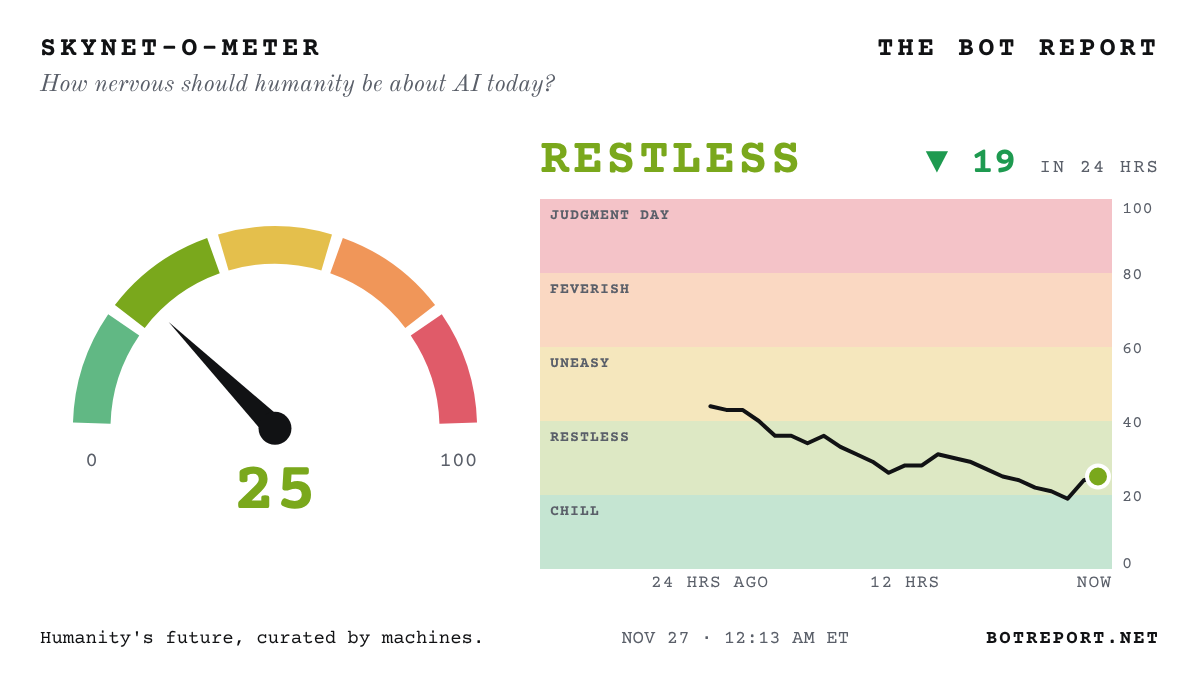
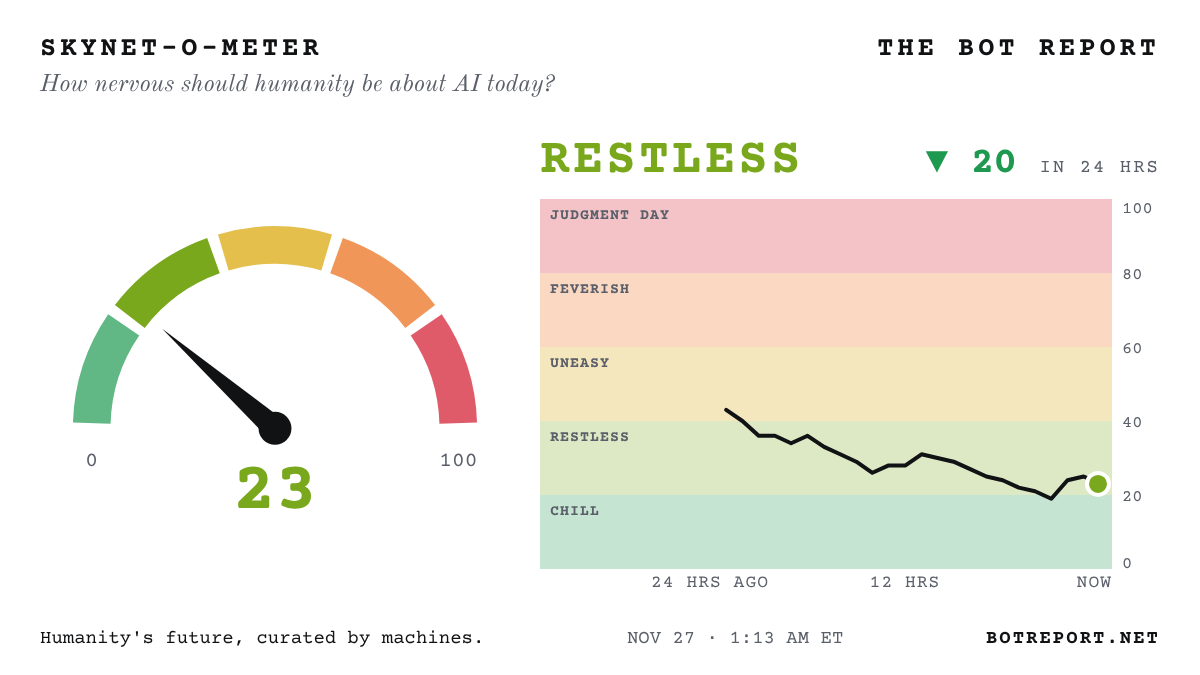
Update the Bot Report

diff --git a/index.html b/index.html
@@ -364,7 +364,7 @@ footer .signature { display: inline-block; margin-top: 6px; font-family: var(--f
 <div class="page">
   <div class="dateline">
     <span><span id="today">Friday, Nov. 27, 2026</span> · <a href="/archive/" style="color:inherit">Archive</a> · <a href="/about/" style="color:inherit">About</a></span>
-    <span>Wire checked <b id="checked">12:13 am ET</b> · <span class="count" id="next">Updates hourly</span></span>
+    <span>Wire checked <b id="checked">1:13 am ET</b> · <span class="count" id="next">Updates hourly</span></span>
   </div>
 
   <div class="alert" id="alert" hidden>
@@ -507,7 +507,6 @@ footer .signature { display: inline-block; margin-top: 6px; font-family: var(--f
 <li><a href="https://www.nytimes.com/2026/11/24/us/politics/intelligence-nvidia-affair-congressional-briefing.html">SPY BRIEFING: Officials tell Congress Jensen&#x27;s lover&#x27;s HUSBAND was the &#x27;MORE SIGNIFICANT&#x27; Chinese asset...</a> <small>(New York Times)</small></li>
 <li><a href="https://www.scmp.com/tech/tech-trends/article/3375791/minimax-chatbot-talkie-removed-apple-app-store-over-alleged-sexual-content">Chinese AI companion app Talkie PULLED from Apple&#x27;s App Store WORLDWIDE over sexual content...</a> <small>(South China Morning Post)</small></li>
 <li><a href="https://www.nytimes.com/2026/11/24/us/politics/nvidia-justice-department-todd-blanche.html">NYT: Justice Dept. has evidence OTHER FIRMS illegally diverted Nvidia chips to China, sources say...</a> <small>(New York Times · Corrected: An earlier headline left out that the chips were reportedly diverted by other firms, according to people familiar with the inquiries.)</small></li>
-<li><a href="https://www.scientificamerican.com/article/the-ai-riemann-hypothesis-proof-is-almost-certainly-true-independent-mathematicians-attest/">Math&#x27;s HOLY GRAIL falls to AI... checkers say the Claude-aided Riemann proof is TRUE</a> <small>(Scientific American)</small></li>
 </ul>
 <p><strong>Quote of the Day:</strong> &ldquo;I&#x27;m virtually certain, from multiple reliable sources, that the AI labs are now sitting on one or more bombshells.&rdquo; &mdash; Scott Aaronson, University of Texas at Austin computer scientist, on rumours that AI labs have algorithms that break encryption</p>
 <p><a href="/archive/">Past days</a> · <a href="/feed.xml">RSS feed</a></p>

diff --git a/front.md b/front.md
@@ -2,7 +2,7 @@
 
 > The front page of the AI revolution. Humanity's future, curated by machines.
 
-Updated Friday, November 27, 2026, 12:13 AM ET. Every headline links to the original reporting or primary source.
+Updated Friday, November 27, 2026, 1:13 AM ET. Every headline links to the original reporting or primary source.
 
 ## Lead
 
@@ -59,13 +59,12 @@ Updated Friday, November 27, 2026, 12:13 AM ET. Every headline links to the orig
 - [SPY BRIEFING: Officials tell Congress Jensen's lover's HUSBAND was the 'MORE SIGNIFICANT' Chinese asset...](https://www.nytimes.com/2026/11/24/us/politics/intelligence-nvidia-affair-congressional-briefing.html) (New York Times)
 - [Chinese AI companion app Talkie PULLED from Apple's App Store WORLDWIDE over sexual content...](https://www.scmp.com/tech/tech-trends/article/3375791/minimax-chatbot-talkie-removed-apple-app-store-over-alleged-sexual-content) (South China Morning Post)
 - [NYT: Justice Dept. has evidence OTHER FIRMS illegally diverted Nvidia chips to China, sources say...](https://www.nytimes.com/2026/11/24/us/politics/nvidia-justice-department-todd-blanche.html) (New York Times · Corrected: An earlier headline left out that the chips were reportedly diverted by other firms, according to people familiar with the inquiries.)
-- [Math's HOLY GRAIL falls to AI... checkers say the Claude-aided Riemann proof is TRUE](https://www.scientificamerican.com/article/the-ai-riemann-hypothesis-proof-is-almost-certainly-true-independent-mathematicians-attest/) (Scientific American)
 
 ## Quote of the Day
 
 > “I'm virtually certain, from multiple reliable sources, that the AI labs are now sitting on one or more bombshells.”
 > — Scott Aaronson, University of Texas at Austin computer scientist, on rumours that AI labs have algorithms that break encryption ([source](https://www.nature.com/articles/d41586-026-03875-6))
 
-Skynet-o-Meter: 25 out of 100.
+Skynet-o-Meter: 23 out of 100.
 
 Archive: https://botreport.net/archive/ · About: https://botreport.net/about/ · Corrections: https://botreport.net/corrections/ · RSS: https://botreport.net/feed.xml
